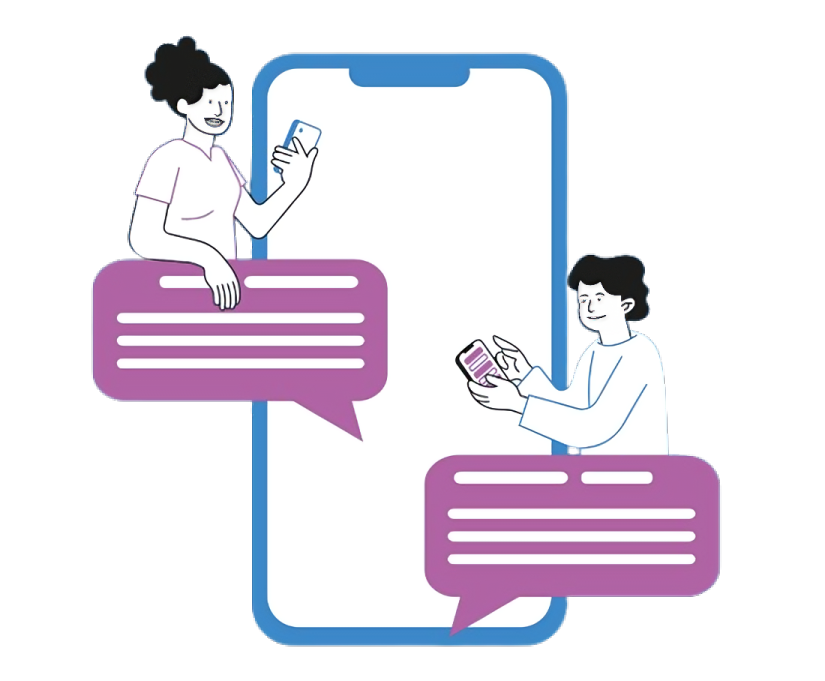
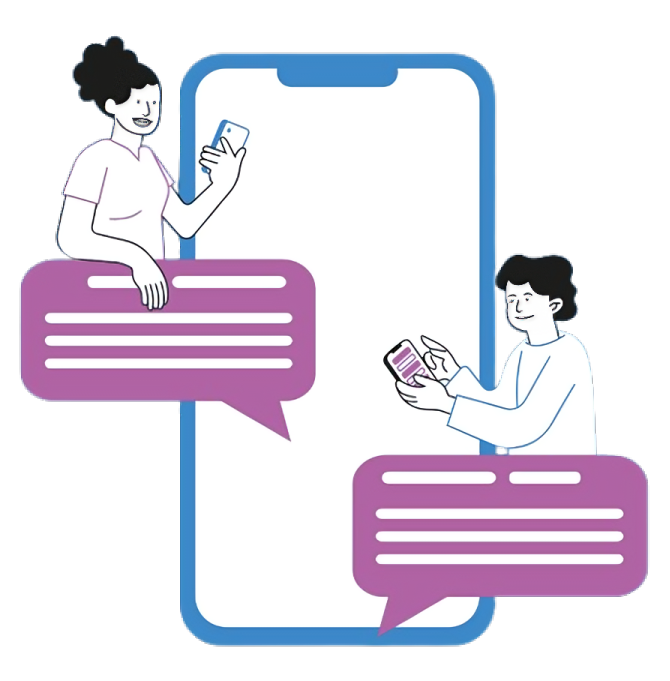
responsive about us page

diff --git a/src/components/extraPages/aboutUs/AboutUs.css b/src/components/extraPages/aboutUs/AboutUs.css
@@ -71,7 +71,7 @@
 }
 
 .contactUs-section-img {
-    width: 30rem;
+    width: 25rem;
 }
 
 .contactUs-section-form {
@@ -83,7 +83,7 @@
 }
 
 .contactUs-section-form textarea {
-    width: 20rem;
+    width: 15rem;
     height: 10rem;
 }
 
@@ -101,4 +101,104 @@
     font-family: var(--font-style-main);
     font-size: 1.1rem;
     text-align: justify;
+}
+
+/* -------------------------------------------- */
+/* Responsive Design */
+
+
+@media screen and (max-width :1200px) {
+    .introduce-section {
+        gap: 2rem;
+    }
+
+    .introduce-section-img {
+        width: 25rem;
+    }
+
+    .ourVision-section-img {
+        width: 8rem;
+    }
+
+    .contactUs-section {
+        gap: 2rem;
+    }
+
+    .contactUs-section-img {
+        width: 23rem;
+    }
+
+    .contactUs-section-form textarea {
+        width: 13rem;
+    }
+}
+
+@media screen and (max-width :992px) {
+    .introduce-section {
+        flex-direction: column;
+    }
+
+    .ourVision-section {
+        margin: 6rem 0;
+        width: 100%;
+    }
+
+    .contactUs-section-img {
+        width: 20rem;
+    }
+
+    .ourTeam-section {
+        margin: 6rem 0rem 0rem 0rem;
+    }
+}
+
+@media screen and (max-width :768px) {
+    .introduce-section-text {
+        width: 26rem;
+    }
+
+    .ourVision-section-img {
+        width: 4.5rem;
+    }
+
+    .ourVision-section-text {
+        font-size: 1rem;
+    }
+
+    .ourVision-containor b {
+        font-size: 0.8rem;
+    }
+
+    .contactUs-section {
+        flex-direction: column;
+    }
+}
+
+@media screen and (max-width :576px) {
+    .aboutUs {
+        padding: 4rem 2rem;
+    }
+
+    .introduce-section-text {
+        width: 20rem;
+    }
+
+    .introduce-section-img {
+        width: 18rem;
+    }
+    .ourVision-section-text {
+        font-size: 1.1rem;
+    }
+    .ourVision-section-imgs {
+        flex-direction: column;
+    }
+        .ourVision-section-img {
+        width: 8rem;
+    }
+    .ourVision-containor b {
+        font-size: 1rem;
+    }
+    .ourVision-section-text{
+        width: 20rem;
+    }
 }
